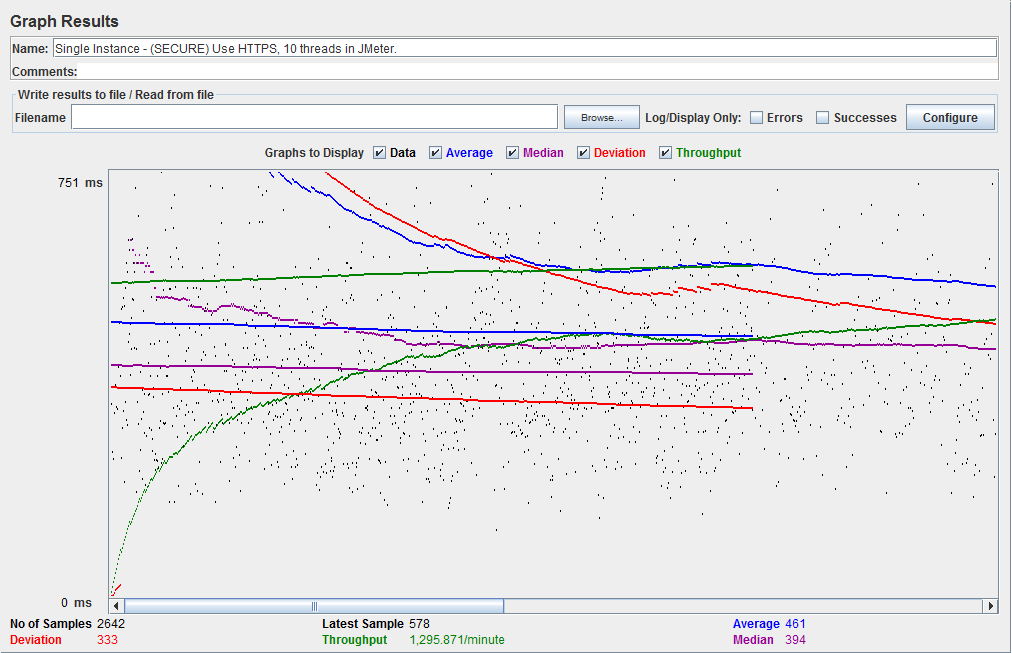
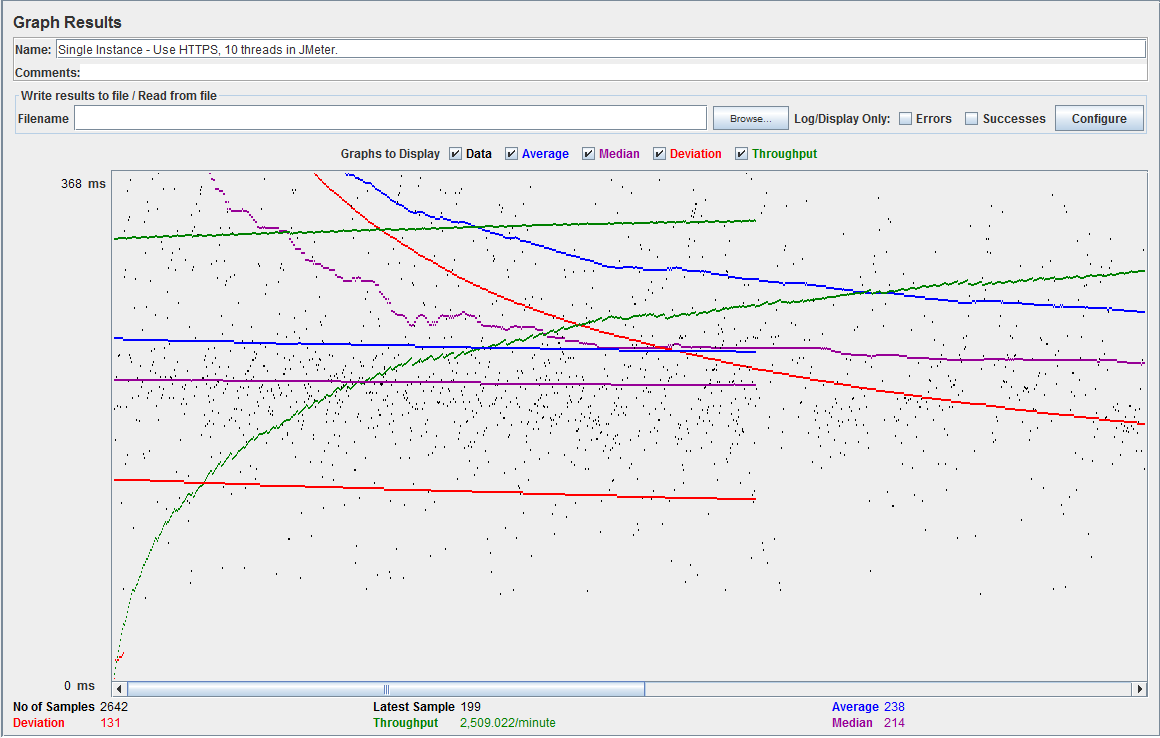
Re tested with jmeter and put in different results

diff --git a/WebContent/reports/jmeter_report.html b/WebContent/reports/jmeter_report.html
@@ -24,7 +24,7 @@ td {
   <tr>
     <td>Case 1: HTTP/1 thread</td>
     <td><img src="../img/single-1.png" alt="Graph Results Screenshot Case 1" style="width:304px;height:228px;"></td>
-    <td>97</td>
+    <td>75</td>
     <td>42.6516</td>
     <td>29.9436</td>
     <td>
@@ -36,7 +36,7 @@ td {
   <tr>
     <td>Case 2: HTTP/10 threads</td>
     <td><img src="../img/single-2.png" alt="Graph Results Screenshot Case 2" style="width:304px;height:228px;"></td>
-    <td>433</td>
+    <td>233</td>
     <td>350.7398</td>
     <td>243.5634</td>
     <td>
@@ -48,7 +48,7 @@ td {
   <tr>
     <td>Case 3: HTTPS/10 threads</td>
     <td><img src="../img/single-3.png" alt="Graph Results Screenshot Case 3" style="width:304px;height:228px;"></td>
-    <td>461</td>
+    <td>236</td>
     <td>362.4191</td>
     <td>256.4008</td>
     <td>
@@ -60,7 +60,7 @@ td {
   <tr>
     <td>Case 4: HTTP/10 threads/No prepared statements</td>
     <td><img src="../img/single-4.png" alt="Graph Results Screenshot Case 4" style="width:304px;height:228px;"></td>
-    <td>438</td>
+    <td>229</td>
     <td>355.1321</td>
     <td>243.3292</td>
     <td>
@@ -72,7 +72,7 @@ td {
   <tr>
     <td>Case 5: HTTP/10 threads/No connection pooling</td>
     <td><img src="../img/single-5.png" alt="Graph Results Screenshot Case 4" style="width:304px;height:228px;"></td>
-    <td>503</td>
+    <td>305</td>
     <td>415.7025</td>
     <td>279.0054</td>
     <td>
@@ -96,7 +96,7 @@ td {
   <tr>
     <td>Case 1: HTTP/1 thread</td>
     <td><img src="../img/load-1.png" alt="Graph Results Screenshot Case 1" style="width:304px;height:228px;"></td>
-    <td>104</td>
+    <td>75</td>
     <td>44.8163</td>
     <td>33.0464</td>
     <td>
@@ -108,7 +108,7 @@ td {
   <tr>
     <td>Case 2: HTTP/10 threads</td>
     <td><img src="../img/load-2.png" alt="Graph Results Screenshot Case 2" style="width:304px;height:228px;"></td>
-    <td>282</td>
+    <td>143</td>
     <td>207.3321</td>
     <td>155.4785</td>
     <td>
@@ -120,7 +120,7 @@ td {
   <tr>
     <td>Case 3: HTTP/10 threads/No prepared statements</td>
     <td><img src="../img/load-3.png" alt="Graph Results Screenshot Case 4" style="width:304px;height:228px;"></td>
-    <td>280</td>
+    <td>136</td>
     <td>206.6705</td>
     <td>155.4977</td>
     <td>
@@ -131,7 +131,7 @@ td {
   <tr>
     <td>Case 4: HTTP/10 threads/No connection pooling</td>
     <td><img src="../img/load-4.png" alt="Graph Results Screenshot Case 4" style="width:304px;height:228px;"></td>
-    <td>320</td>
+    <td>172</td>
     <td>242.1212</td>
     <td>169.5906</td>
     <td>
